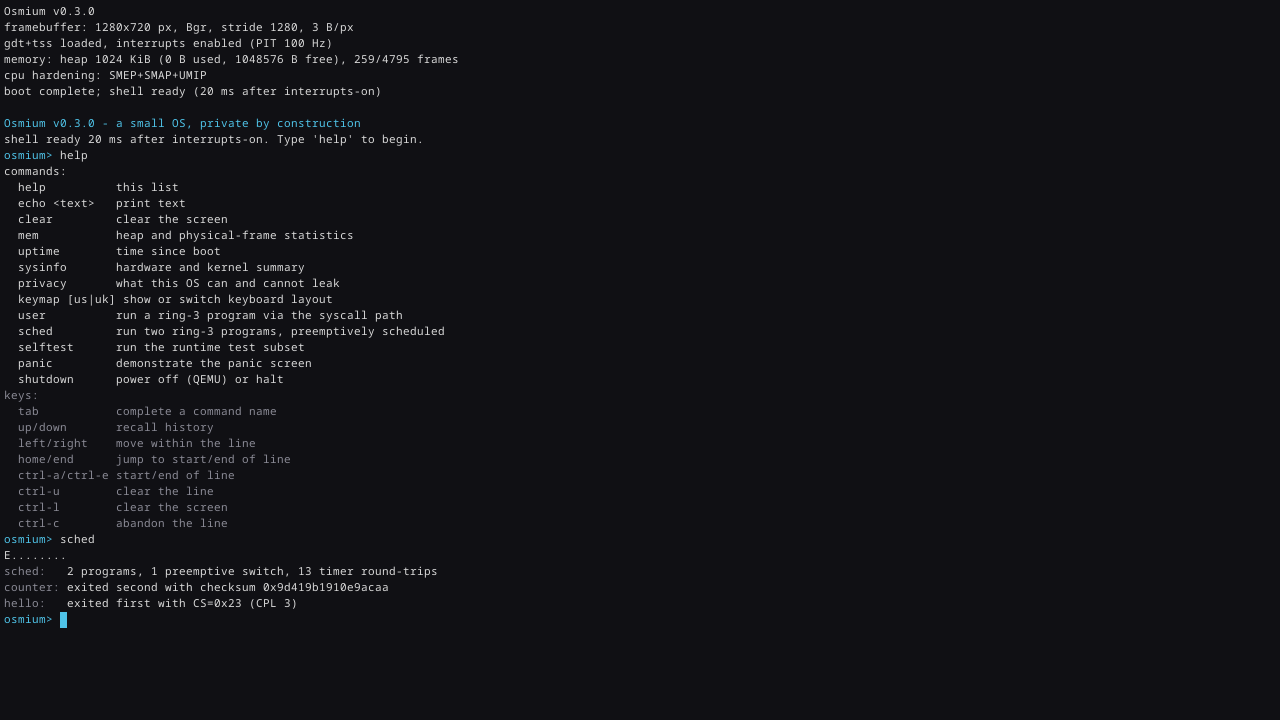
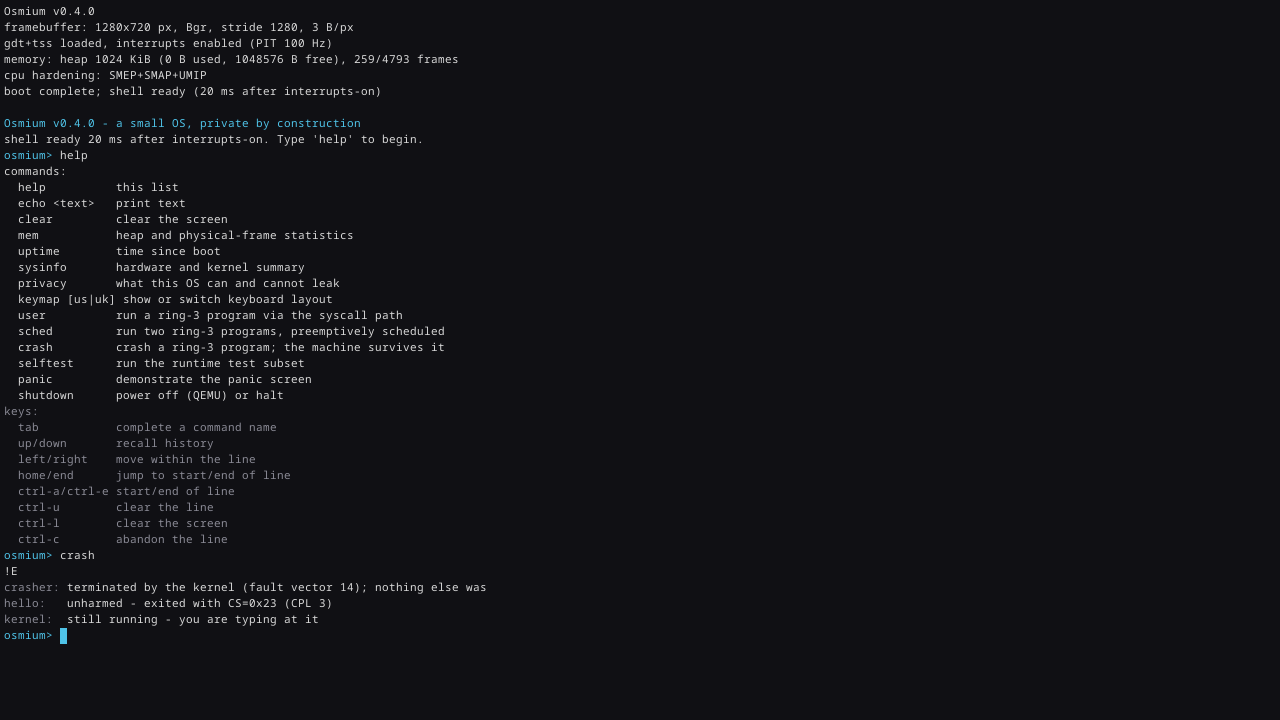
M10 complete: mutations observed, docs reconciled, privacy types 'crash', v0.4.0
- All three planned mutations now OBSERVED FAILING from a green baseline
  (recorded in the TDD test plan): ring-3 fork removed -> the crasher's
  fault panics the kernel; wrong vector reported -> the containment
  assertion catches Some(13) vs Some(14); kill-path CR3 switch omitted ->
  the surviving neighbour resumes in the dead task's space and is itself
  killed ('the innocent neighbour was marked faulted').
- Toolchain pin corrected to nightly-2026-08-05: 08-15's LLVM 23.1 raises
  a wcslen libcall in the uefi crate's UCS-2 length loop that
  bootloader-x86_64-uefi cannot link (no libc on x86_64-unknown-uefi);
  08-05 is the newest LLVM-22 nightly. Full battery green on it locally:
  bios, uefi, shipped, privacy, fmt, all clippy configs, host tests.
- cargo xtask privacy now types 'crash' too, extending the empty-serial
  allowlist proof over the fault-kill path.
- README/PRD/ARCHITECTURE/APP_FLOW/TDD reconciled for M10; fresh README
  screenshot from a real v0.4.0 boot (help + crash, SMEP+SMAP+UMIP
  active); kernel version 0.4.0.

Changed region(s): [[0.0, 0.4583, 0.3125, 0.7639], [0.0, 0.7333, 0.375, 0.8861], [0.0, 0.8556, 0.0625, 0.8861]]

diff --git a/xtask/src/main.rs b/xtask/src/main.rs
@@ -150,15 +150,18 @@ fn privacy() -> Result<()> {
     // both programs' output must be just as serial-silent — then quit. Typing
     // `user` here is what makes the allowlist actually cover the
     // syscall-output path a security review flagged; typing `sched` extends
-    // the same proof over the M8 scheduler path. The queued `shutdown`
-    // keystrokes drain after `sched`'s ~a-second run finishes (scancodes
-    // buffer in the IRQ queue), and the clean exit remains the positive
-    // control that everything typed was really executed.
+    // the same proof over the M8 scheduler path, and `crash` over the M10
+    // fault-kill path (a ring-3 page fault, its termination report and the
+    // survivor's output must all stay off the serial port too). The queued
+    // `shutdown` keystrokes drain after the runs finish (scancodes buffer in
+    // the IRQ queue), and the clean exit remains the positive control that
+    // everything typed was really executed.
     let mut monitor = TcpStream::connect(("127.0.0.1", MONITOR_PORT))
         .context("connecting to the QEMU monitor")?;
     send_line_as_keys(&mut monitor, &format!("echo {SENTINEL}"))?;
     send_line_as_keys(&mut monitor, "user")?;
     send_line_as_keys(&mut monitor, "sched")?;
+    send_line_as_keys(&mut monitor, "crash")?;
     send_line_as_keys(&mut monitor, "shutdown")?;
 
     let status = loop {

diff --git a/docs/TDD.md b/docs/TDD.md
@@ -75,7 +75,7 @@ interrupt-context deadlocks.
 | Global | Type | Initialised at | Protected by | Touched from IRQ? |
 |---|---|---|---|---|
 | `GDT` | `GlobalDescriptorTable` + selectors | M2, once | `spin::LazyLock`, then immutable | No |
-| `TSS` | `TaskStateSegment` in an `UnsafeCell` (`TssCell`) | M2 (ISTs, default RSP0); **RSP0 rewritten per context switch since M8** | Every RSP0 write happens with interrupts disabled (`set_privilege_stack` asserts it), so the CPU cannot take a ring-3 trap mid-update; the GDT descriptor holds only the TSS's address (`tss_segment_unchecked`), so no shared reference is held across a mutation | Read by CPU on privilege transitions; **written from the timer and `SYS_EXIT` paths** (IF=0 in both) |
+| `TSS` | `TaskStateSegment` in an `UnsafeCell` (`TssCell`) | M2 (ISTs, default RSP0); **RSP0 rewritten per context switch since M8** | Every RSP0 write happens with interrupts disabled (`set_privilege_stack` asserts it), so the CPU cannot take a ring-3 trap mid-update; the GDT descriptor holds only the TSS's address (`tss_segment_unchecked`), so no shared reference is held across a mutation | Read by CPU on privilege transitions; **written from the timer, `SYS_EXIT` and fault-kill (M10) paths** (IF=0 in all three — exception gates clear IF like interrupt gates) |
 | `DOUBLE_FAULT_STACK` | `UnsafeCell<[u8; 20 KiB]>` | Static, in `.bss` | Written only by the CPU on double fault | Yes, by hardware |
 | `IDT` | `InterruptDescriptorTable` | M2, once | `spin::LazyLock`, then immutable | Read by CPU only |
 | `PICS` | `ChainedPics` | M2 | `spin::Mutex` | **Yes** — end-of-interrupt write. Held for a few instructions; never nested with any other lock. |
@@ -90,7 +90,7 @@ interrupt-context deadlocks.
 | `EXPECTING_DOUBLE_FAULT` | `AtomicBool`, `#[cfg(feature = "selftest")]` only | M5, by the battery's last check | Atomic, `SeqCst` | Read by the double-fault handler; see the battery protocol below. |
 | `PRIVILEGE_STACK` | `UnsafeCell<[u8; 20 KiB]>` | Static, in `.bss` (M6) | Written only by the CPU, on a ring-3 → ring-0 transition taken outside a scheduler run (TSS RSP0's default target) | Yes, by hardware |
 | `KERNEL_CONTINUATION_RSP` | `AtomicU64` | M6; rewritten by every `sched::enter_tasks` | Written before any ring-3 instruction can execute | Read by the `int 0x80` entry's run-complete path — a software interrupt from ring 3, sound only because ring 3 is reachable *only* through `enter_tasks`, which always writes it first |
-| `SCHED` | `Mutex<Sched>`: the task table (per-task kernel stack, saved RSP, **address-space root (CR3, M9)**, ready flag, exit code/order), current index, active flag, counters | M8; task table built at `install`, drained at `collect` | `spin::Mutex`, **locked only with interrupts off** — the timer and `SYS_EXIT` paths run behind interrupt gates (IF=0), and the launcher wraps install/enter/collect in its own cli window. On one core that makes contention impossible; real `assert!`s pin the discipline in every build. The task table is fully allocated in `install` (launcher context) and only indexed from handlers, preserving the handlers-never-allocate rule | **Yes** — the timer handler saves/picks/switches; the `int 0x80` `SYS_EXIT` path marks exits |
+| `SCHED` | `Mutex<Sched>`: the task table (per-task kernel stack, saved RSP, **address-space root (CR3, M9)**, ready flag, exit code/order, **fault vector (M10)** — `Some(v)` when the kernel terminated the task for a ring-3 fault), current index, active flag, counters | M8; task table built at `install`, drained at `collect` | `spin::Mutex`, **locked only with interrupts off** — the timer, `SYS_EXIT` and fault-kill paths run behind interrupt/exception gates (IF=0), and the launcher wraps install/enter/collect in its own cli window. On one core that makes contention impossible; real `assert!`s pin the discipline in every build. The task table is fully allocated in `install` (launcher context) and only indexed from handlers, preserving the handlers-never-allocate rule | **Yes** — the timer handler saves/picks/switches; the `int 0x80` `SYS_EXIT` path marks exits; **`kill_current` (M10) marks a fault termination and leaves through the same two exits `sys_exit` uses** |
 | `TIMER_ENTRY_AC` | `AtomicBool`, `#[cfg(feature = "selftest")]` only | M8 | Atomic, `SeqCst` | **Yes** — set by the timer's Rust half if `EFLAGS.AC` survived the naked entry's scrub; the battery asserts it never did while a hostile program held AC set |
 | `KERNEL_CR3`, `PHYS_OFFSET` | `AtomicU64` × 2 | M9, once at `memory::init` | Write-once, then read-only | `KERNEL_CR3` is read by the scheduler's run-complete path (IF=0) to restore the kernel's root; `PHYS_OFFSET` only from launcher context |
 | `BOOT_TSC`, `MARKS` | `AtomicU64`, `[AtomicU64; 3]` | First line of `kernel_main`; one `stamp` per boot phase (M5) | Atomic, `Relaxed` | No |
@@ -600,6 +600,16 @@ must be seen to break it.
   repetition adds no flake risk), and widened the documented no-new-mappings
   invariant (the deep-copied entry-0 chain makes ANY new kernel mapping under
   PML4[0] unshared, not just new PML4-level entries).
+- *Mutation, M10 (all observed failing 2026-08-18):* remove the page-fault
+  handler's ring-3 fork (the crasher's fault panics the whole kernel — the
+  pre-M10 behaviour — and the battery reddens with the Ring3 frame in the
+  panic dump); report the wrong vector from the same fork, 13 for 14 (the
+  containment assertion fails with "crasher was not terminated by a page
+  fault", `Some(13)` against `Some(14)`); omit the kill path's CR3 switch
+  (the surviving neighbour resumes inside the DEAD task's address space,
+  faults there, and is itself killed — "the innocent neighbour was marked
+  faulted", which is the assertion that proves the kill path must switch
+  worlds exactly as the timer path does).
 
 **Build gates**
 

diff --git a/docs/APP_FLOW.md b/docs/APP_FLOW.md
@@ -72,6 +72,7 @@ exhausted prefix lists the candidates and keeps the input.
 | `privacy` | Reports the claims **as facts the build can support**, not as slogans: no network stack exists, nothing persists, freed heap blocks and handed-out frames are zeroed, keystrokes render on this screen only (never on the serial port), and user code runs in ring 3 under the CPU-advertised SMEP/SMAP/UMIP set. Ends by stating that the memory claims are self-tested and network/persistence are CI-gated, not policy. | None. |
 | `user` | Runs the embedded `hello` ELF in ring 3: parse, per-segment W^X mapping, the `int 0x80` syscall path, teardown. Success prints the value the program passed to `SYS_EXIT` — its own CS, whose low two bits are the CPL. | A refused image is a diagnosis, not a crash: `user: the embedded ELF was refused:` plus the named `ElfError` variant, and nothing was mapped before the refusal. |
 | `sched` | The preemption demonstration: runs `counter` (a long compute loop that never yields, printing a progress dot per eighth) and `hello` concurrently, counter launched first, round-robin on the timer tick. Their output interleaves live — hello's byte lands among counter's dots because the timer, not any yield, moves the CPU. Then a report: preemptive switch and timer round-trip counts, and each program's exit order and value — hello, launched second, exits **first**, which is the visible proof the scheduling is preemptive. | Same refusal shape as `user`: a refused image prints the named `ElfError` and nothing was mapped. |
+| `crash` | The fault-isolation demonstration (M10): runs `crasher` (announces itself with a `!`, then dereferences an unmapped address at CPL 3) beside `hello`. The kernel terminates the crasher — and only it. The report names the fault vector that killed it, confirms hello exited unharmed at CPL 3, and ends with `kernel: still running - you are typing at it`, because the prompt returning is itself the proof. | If the crasher somehow exits without faulting, the report says so (`exited 0xbad without faulting (unexpected)`) instead of pretending; a refused image prints the named `ElfError` as in `user`. |
 | `panic` | Deliberately panics, to demonstrate the panic screen. Documented as a demonstration, not a defect. **It takes no message argument, and that is a privacy decision rather than a missing feature:** a panic is reported on the serial port as well as the screen, so a message argument would be the one path by which something typed at this keyboard could reach serial. The message is fixed in the source instead. | None — it always succeeds by failing. Any text after the verb is ignored. |
 | `shutdown` | Prints `shutting down`, then exits the VM through the `isa-debug-exit` port under QEMU. On real hardware that port write is a no-op and the machine halts — safe to switch off, since nothing was ever written to disk. | The hardware fallback is not an error; it is the honest outcome. |
 | `selftest` | Re-runs the four checks that are safe to repeat — heap allocation, the zero-on-free sentinel, `int3`, and the PIT — printing one `[ ok ]` line each. It is the shell's own copy of them, not the boot battery itself: the battery is compiled in only under the `selftest` feature, and that build has no shell. **Everything else in the boot battery is left out** — the paging probe (a fixed address that cannot be mapped twice), the stack overflow (it cannot return), and the ring-3 round trip with its page-table audits, which the `user` command exercises on demand instead. The screen does not name what it leaves out, which is a gap in the output rather than in the tests. | A failing check prints `[FAIL]` in the danger colour instead of `[ ok ]`, and the shell returns to the prompt. |
@@ -97,8 +98,11 @@ table never carries a user-accessible entry, audited by the battery before ring 
 has ever run and again after every run — and each returns through `int 0x80`.
 Since M8 up to two programs run concurrently under preemptive round-robin, and
 since M9 each runs in its own address space, isolated from the others' memory as
-well as the kernel's. There is still nothing to authenticate against: whoever is
-at the keyboard is the operator, and physical access is total access. **Offline is not applicable because
+well as the kernel's. Since M10 a fault in one of them terminates that task
+alone (the `crash` command demonstrates it live); only a kernel-context fault
+reaches the panic screen. There is still nothing to authenticate against:
+whoever is at the keyboard is the operator, and physical access is total
+access. **Offline is not applicable because
 there is no network stack**. A state that depends on a remote response cannot occur
 where no remote call can be made. Both cells stay "n/a" until accounts or networking
 exist, at which point this document is rewritten before that code is written.
@@ -114,8 +118,9 @@ stateDiagram-v2
     Prompt --> Prompt : keystroke echoed
     Prompt --> Output : Enter, command runs
     Output --> Prompt : always
-    Prompt --> Panic : `panic` command, or a fault
-    Output --> Panic : a fault during a command
+    Prompt --> Panic : `panic` command, or a kernel-context fault
+    Output --> Panic : a kernel-context fault during a command
+    Output --> Output : a ring-3 fault kills that task only (M10)
     Prompt --> Halted : `shutdown` with no mechanism
     Prompt --> [*] : `shutdown` reaches the platform
     Panic --> [*] : power cycle only

diff --git a/docs/ARCHITECTURE.md b/docs/ARCHITECTURE.md
@@ -137,8 +137,18 @@ degenerate case of the scheduler. In symbol order:
    Any other syscall marshals into the SysV ABI, calls `syscall_dispatch`,
    scrubs the caller-saved registers (keeping `rax`) and `iretq`s back to the
    program. `SYS_WRITE` renders its byte to the local console, never serial:
-   the shipped `user`/`sched` commands must not grow an off-device output
-   channel, and `cargo xtask privacy` types both commands to prove it.
+   the shipped `user`/`sched`/`crash` commands must not grow an off-device
+   output channel, and `cargo xtask privacy` types all three to prove it.
+   **`sched::kill_current`** (M10) is the involuntary counterpart of
+   `sys_exit`: every fault handler forks on the faulting CPL — ring 3 calls
+   `kill_current(vector)`, which scrubs `EFLAGS.AC`, marks the task
+   fault-terminated with the vector that killed it, and takes the same two
+   exits `sys_exit` does (resume the next ready task's context with its RSP0
+   and CR3, or restore the kernel's world and return to the launcher), via
+   naked never-returning helpers sharing the canonical pop-15/`iretq` restore
+   tail. A CPL-0 fault still panics: a kernel bug is not a schedulable event,
+   and NMI, machine check and double fault stay panic-only at any CPL because
+   they report machine-level events, not something the current task did.
 5. **Teardown and audit.** Teardown is dropping the spaces: the kernel's own
    table was never touched, so there is nothing to unmap — the per-task tables
    and user frames leak (bump allocator), and the per-task kernel stacks are
@@ -148,13 +158,16 @@ degenerate case of the scheduler. In symbol order:
    anywhere, ever. The battery runs that audit both before ring 3 has ever
    run and again after every scenario.
 
-The boundary is stated, not oversold: a misbehaving user program is fatal
-(every exception handler panics — there is no per-task fault termination yet,
-so a fault takes every task down), and each run leaks its few mapped frames
+The boundary is stated, not oversold: each run leaks its few mapped frames
 and page-table frames until frame reclamation exists. What M9 removed from
 this list is memory sharing: tasks are now isolated from each other as well
 as from the kernel, proven by two instances of one image at one virtual
-address each seeing only its own data.
+address each seeing only its own data. What M10 removed is fault fatality: a
+ring-3 fault now terminates the offending task alone — the battery proves it
+by page-faulting `crasher` beside a healthy `hello` and asserting the
+neighbour, the run report and the kernel all came through intact, then by
+faulting the LAST task alive to force the return-to-launcher branch of the
+kill path deterministically.
 
 ## The preemptive context switch (M8)
 

diff --git a/README.md b/README.md
@@ -5,13 +5,15 @@ construction, light by measurement**.
 
 [![CI](https://github.com/Leo-Y-Zhang/Osmium/actions/workflows/ci.yml/badge.svg)](https://github.com/Leo-Y-Zhang/Osmium/actions/workflows/ci.yml)
 
-![The Osmium shell answering `help`, then `sched` showing two ring-3 programs preemptively scheduled — the program launched second exits first](docs/screenshot.png)
+![The Osmium shell answering `help`, then `crash` demonstrating fault isolation — a ring-3 program page-faults and is terminated by the kernel while its neighbour exits unharmed and the shell keeps running](docs/screenshot.png)
 
 Osmium boots from BIOS or UEFI, renders its own glyph console on the framebuffer,
 takes keyboard input through an async executor, drops you at a shell, and runs
 user programs in ring 3 under **preemptive multitasking with per-task address
-spaces** — inside 24 MiB of RAM. Every push to `main` must boot in QEMU under CI
-and pass an in-kernel self-test battery; `main` is never un-bootable.
+spaces and fault isolation** — a crashing program is terminated alone, and the
+machine keeps running — inside 24 MiB of RAM. Every push to `main` must boot in
+QEMU under CI and pass an in-kernel self-test battery; `main` is never
+un-bootable.
 
 ## Privacy by construction
 
@@ -189,10 +191,12 @@ and results collect in [docs/HARDWARE.md](docs/HARDWARE.md).
 Ring 3 + syscalls landed as M6; ELF loading landed as M7 (the user programs
 are real linker-scripted Rust binaries); preemptive multitasking of ring-3
 tasks landed as M8; per-task address spaces landed as M9 (tasks are isolated
-from each other as well as from the kernel). Still ahead: per-task fault
-isolation (a crashing program still takes the machine down), a RAM-disk
-filesystem, APIC/HPET, and SMP. Networking is on no roadmap; if it ever
-lands, it ships off by default.
+from each other as well as from the kernel); fault isolation landed as M10 —
+a ring-3 fault terminates the offending task and nothing else, while a
+kernel-context fault still panics, because a kernel bug is not a schedulable
+event (try it: the `crash` shell command page-faults a program next to a
+healthy one). Still ahead: a RAM-disk filesystem, APIC/HPET, and SMP.
+Networking is on no roadmap; if it ever lands, it ships off by default.
 
 ## Try it without building
 

diff --git a/docs/PRD.md b/docs/PRD.md
@@ -138,7 +138,12 @@ appear in a v1 pull request.
   proves it by running two instances of one image at one VA and asserting each
   read its own pristine data segment; the kernel's own page table now never
   carries a user-accessible entry at all, which the audit asserts in its
-  strongest form.
+  strongest form. **Fault isolation followed as M10:** a ring-3 fault
+  terminates the offending task — with the exception vector recorded in its
+  exit report — and nothing else; a kernel-context fault still panics, and
+  NMI/machine check/double fault stay panic-only at any CPL. The battery
+  proves it by page-faulting one program beside a healthy one and asserting
+  the neighbour, the report and the kernel all survived.
 - **APIC and HPET.** The legacy 8259 PIC and the 8254 timer are used instead. The
   APIC requires ACPI table parsing for no demonstrable v1 benefit; that cost is
   deferred until something needs it.
